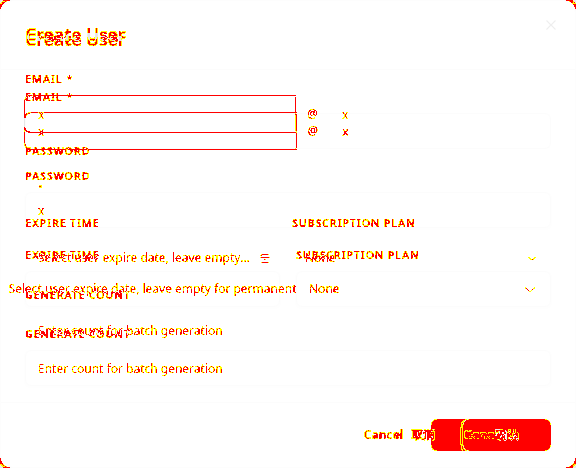
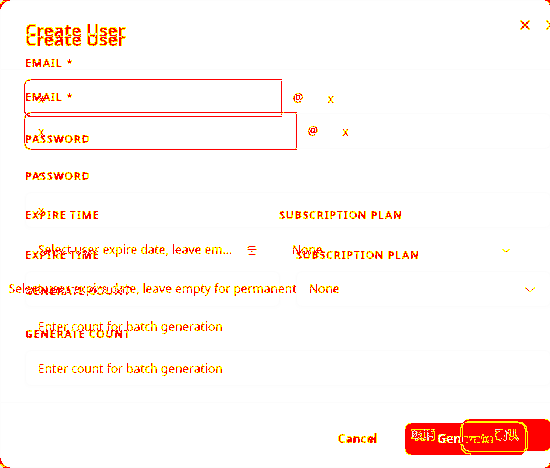
fix(admin): R11 dialog header/footer parity + SuffixInput span + gate chart mask
- Plan/Gift/User dialogs: header pb-3 pt-5, title font-semibold, footer py-3
- Plan textarea min-h-[229px]; user/mail/create xb-stack-3 py-0
- SuffixInput suffix/prefix use span for 7001 DOM parity
- TrafficReset cell spacing xb-stack-05
- visual-gate: mask recharts on admin dashboard for stable diff

diff --git a/frontend/admin/src/pages/modules/UserPage.tsx b/frontend/admin/src/pages/modules/UserPage.tsx
@@ -1135,8 +1135,8 @@ export default function UserPage() {
 
       <Dialog open={mailOpen} onOpenChange={setMailOpen}>
         <DialogContent className="!flex h-[764px] max-h-[764px] flex-col gap-0 overflow-hidden p-0 sm:max-w-2xl">
-          <DialogHeader className="shrink-0 xb-stack-15 border-b px-6 pb-4 pt-6 text-left">
-            <DialogTitle className="text-lg tracking-tight">
+          <DialogHeader className="shrink-0 xb-stack-15 border-b px-6 pb-3 pt-5 text-left">
+            <DialogTitle className="text-lg font-semibold leading-none tracking-tight">
               {t('user.send_mail.title')}
             </DialogTitle>
             <DialogDescription className="text-xs leading-relaxed opacity-70">
@@ -1144,7 +1144,7 @@ export default function UserPage() {
             </DialogDescription>
           </DialogHeader>
           <div className="min-h-0 flex-1 overflow-y-auto">
-            <div className="xb-stack-2 px-6 py-2 text-sm">
+            <div className="xb-stack-3 px-6 py-0 text-sm">
               <div className="xb-stack-2">
                 <label className={dialogFieldLabelCls}>{t('user.send_mail.scope')}</label>
                 <Select
@@ -1263,11 +1263,13 @@ export default function UserPage() {
         onOpenChange={(o) => !o && setDialogMode(null)}
       >
         <DialogContent className="!flex h-[468px] max-h-[468px] flex-col gap-0 overflow-hidden p-0 sm:max-w-[576px]">
-          <DialogHeader className="shrink-0 border-b px-6 pb-4 pt-6">
-            <DialogTitle>{t('user.generate.title')}</DialogTitle>
+          <DialogHeader className="shrink-0 border-b px-6 pb-3 pt-5">
+            <DialogTitle className="text-lg font-semibold leading-none tracking-tight">
+              {t('user.generate.title')}
+            </DialogTitle>
           </DialogHeader>
           <div className="min-h-0 flex-1 overflow-y-auto">
-            <div className="xb-stack-2 px-6 py-2 text-sm">
+            <div className="xb-stack-3 px-6 py-0 text-sm">
             <div className="xb-stack-2">
               <Label className={dialogFieldLabelCls}>
                 {t('user.generate.form.email')}
@@ -1284,13 +1286,13 @@ export default function UserPage() {
                     }
                   />
                 ) : null}
-                <div
+                <span
                   className={`inline-flex h-9 shrink-0 items-center border-y border-input bg-muted/30 px-3 font-mono text-xs text-muted-foreground ${
                     form.generate_count ? 'rounded-l-md border-l' : 'border-l-0'
                   }`}
                 >
                   @
-                </div>
+                </span>
                 <input
                   className={`${inputCls} ${dialogInputCls} min-w-0 flex-[4] rounded-l-none rounded-r-md border border-l-0 border-input`}
                   placeholder={t('user.generate.form.email_domain')}

diff --git a/frontend/admin/src/pages/modules/PlanPage.tsx b/frontend/admin/src/pages/modules/PlanPage.tsx
@@ -454,8 +454,8 @@ export default function PlanPage() {
 
       <Dialog open={dialogOpen} onOpenChange={setDialogOpen}>
         <DialogContent className="!flex h-[810px] max-h-[810px] flex-col gap-0 overflow-hidden p-0 sm:max-w-[576px]">
-          <DialogHeader className="shrink-0 px-6 pb-4 pt-6 text-left">
-            <DialogTitle className="text-lg tracking-tight">
+          <DialogHeader className="shrink-0 px-6 pb-3 pt-5 text-left">
+            <DialogTitle className="text-lg font-semibold leading-none tracking-tight">
               {editing
                 ? t('subscribe.plan.form.edit_title')
                 : t('subscribe.plan.form.add_title')}
@@ -696,7 +696,7 @@ export default function PlanPage() {
                   </div>
                 </div>
                 <textarea
-                  className={`${textareaCls} min-h-[232px]`}
+                  className={`${textareaCls} min-h-[229px]`}
                   placeholder={t('subscribe.plan.form.content.placeholder')}
                   value={form.content ?? ''}
                   onChange={(e) => setForm((f) => ({ ...f, content: e.target.value }))}

diff --git a/frontend/admin/src/components/shared/SuffixInput.tsx b/frontend/admin/src/components/shared/SuffixInput.tsx
@@ -34,7 +34,7 @@ export function SuffixInput({ suffix, prefix, className, type = 'text', ...props
   if (prefix) {
     return (
       <div className="flex w-full">
-        <div className={addonCls(className, 'left')}>{prefix}</div>
+        <span className={addonCls(className, 'left')}>{prefix}</span>
         <input className={cn(inputCls, 'rounded-l-none', spinless, className)} type={type} {...props} />
       </div>
     )
@@ -47,7 +47,7 @@ export function SuffixInput({ suffix, prefix, className, type = 'text', ...props
         type={type}
         {...props}
       />
-      <div className={addonCls(className, 'right')}>{suffix}</div>
+      <span className={addonCls(className, 'right')}>{suffix}</span>
     </div>
   )
 }

diff --git a/frontend/admin/src/pages/modules/TrafficResetPage.tsx b/frontend/admin/src/pages/modules/TrafficResetPage.tsx
@@ -271,7 +271,7 @@ export default function TrafficResetPage() {
         accessorKey: 'old_traffic',
         header: () => t('user.traffic_reset_logs.columns.cleared_traffic'),
         cell: ({ row }) => (
-          <div className="space-y-0.5 text-sm">
+          <div className="xb-stack-05 text-sm">
             <div className="font-mono text-foreground/90">
               {row.original.old_traffic?.formatted ?? '—'}
             </div>

diff --git a/frontend/admin/src/pages/modules/GiftCardPage.tsx b/frontend/admin/src/pages/modules/GiftCardPage.tsx
@@ -1353,7 +1353,7 @@ export default function GiftCardPage() {
 
         <DialogContent className="!flex h-[810px] max-h-[810px] flex-col gap-0 overflow-hidden p-0 sm:max-w-[576px]">
 
-          <DialogHeader className="shrink-0 xb-stack-15 px-6 pb-4 pt-6 text-left">
+          <DialogHeader className="shrink-0 xb-stack-15 px-6 pb-3 pt-5 text-left">
 
             <DialogTitle className="text-lg tracking-tight">
 

diff --git a/frontend/admin/src/components/shared/DialogFormFooter.tsx b/frontend/admin/src/components/shared/DialogFormFooter.tsx
@@ -25,7 +25,7 @@ export function DialogFormFooter({
   extraLeft,
 }: Props) {
   return (
-    <DialogFooter className="shrink-0 border-t px-6 py-4">
+    <DialogFooter className="shrink-0 border-t px-6 py-3">
       <div className="flex w-full items-center justify-between gap-3">
         <div className="flex items-center gap-2">{extraLeft}</div>
         <div className="flex items-center gap-3">

diff --git a/frontend/admin/src/pages/modules/ServerManagePage.tsx b/frontend/admin/src/pages/modules/ServerManagePage.tsx
@@ -1547,7 +1547,7 @@ export default function ServerManagePage() {
           </div>
 
           <div className="flex h-[75vh] min-h-[500px] flex-col">
-          <div className="min-h-0 flex-1 overflow-y-auto px-6 py-3">
+          <div className="min-h-0 flex-1 overflow-y-auto px-6 py-2">
           <div className="xb-stack-3">
 
             <div className="flex gap-4">
